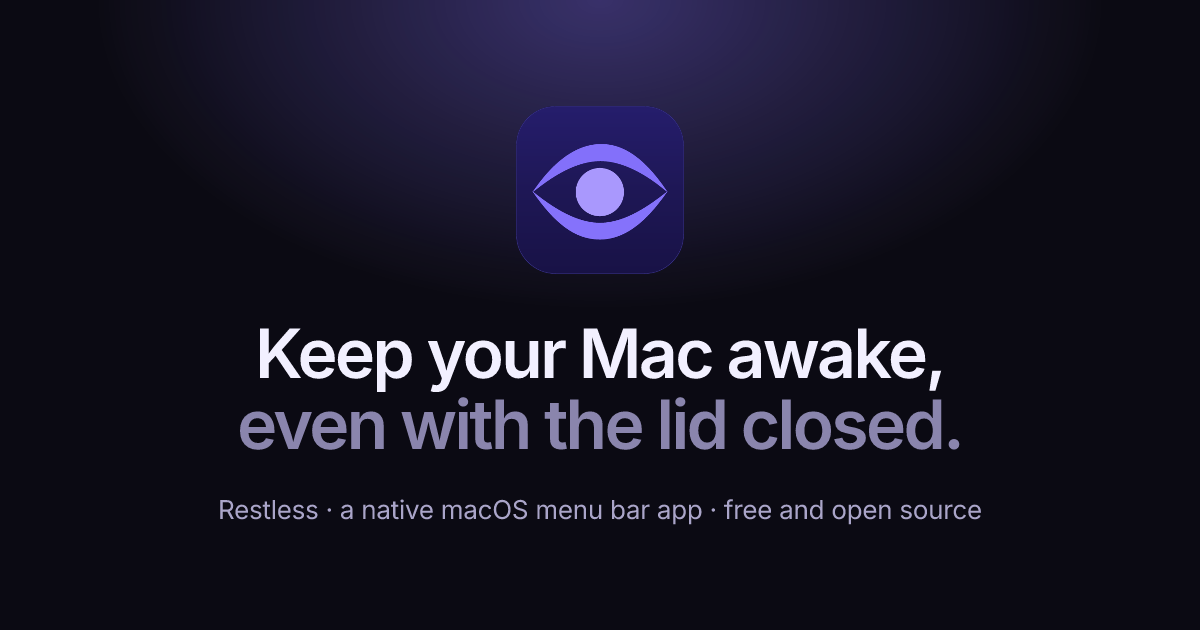
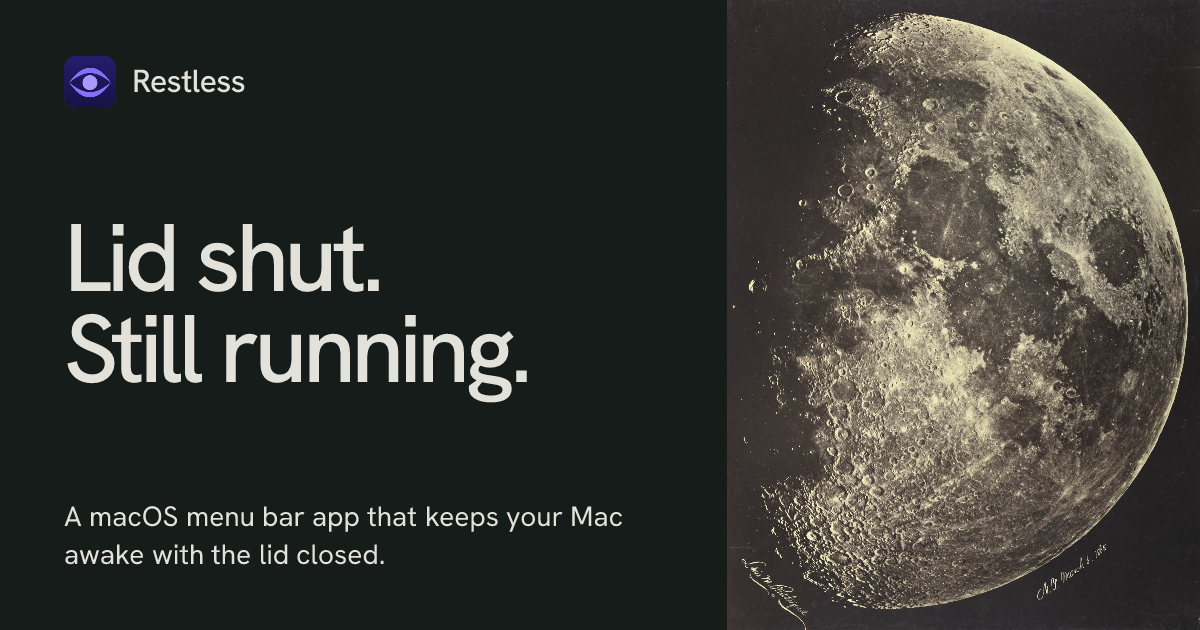
Regenerate the share image and document the design

diff --git a/README.md b/README.md
@@ -44,31 +44,63 @@ npm run assets
 
 That regenerates `favicon.svg`, `favicon.ico`, `apple-touch-icon.png` and the 1200×630 `og.png`. The outputs are committed, so builds don't run this step.
 
+## Design
+
+The page was art-directed with [tasteskill v2](https://www.tasteskill.dev/) (direction "The product performs", seed 425275325; palette redrawn once to "green-black and bone" so the violet app icon is the only purple on the page). In short:
+
+- **Idea:** one night on a closed MacBook. The hero headline is split around a frame, "Lid shut." on the left and "Still running." on the right, while a reel of that night passes through it as you scroll: the lid coming down at 11:41 pm, the moon, the build at 62%, done at 3:12 am.
+- **Pictures are the product's own interface,** built in HTML at true size from the app's real strings (the panel, the helper alert, Settings), plus macOS screens around it (Terminal, Downloads, Notification Center, System Settings). Every fragment's root has `data-ui`; inside it the product's own conventions apply.
+- **The live thing:** the five settings as sentences, each ending in Restless's switch. Flipping them changes the menu bar eye (`eye.slash` / `eye` / `eye.fill`) and the status line using the app's own rules.
+- **House rules:** one typeface (Hanken Grotesk, self-hosted), five type sizes, one ground, one ink, one accent on the download action. No gradients, no shadows outside fragments, no eyebrow labels, no hairlines.
+
+Sample content, for you to keep or replace: the build, deploy, download, notification and agent logs in the fragments are invented to look like a believable night's work; none of them claims anything about real users.
+
+### Checking it
+
+The skill's gates were run on the production build (`npm run build && npm run preview`):
+
+```sh
+node <taste-skill>/scripts/lint.mjs src
+node <taste-skill>/scripts/inspect.mjs http://localhost:4321/
+```
+
+Both pass with no failures. Two warnings are known and deliberate: em dashes appear only inside quoted app and Terminal strings, and on phones the inspector reads the hero reel's clipped frames as crossing the headline (they're clipped by the window, so nothing visibly does). Its working files go in `.taste-skill/`, which is git-ignored.
+
+## Pictures
+
+`public/media/` holds the found pictures, with their sources in `credits.json` and a credit line in the footer. Both are public domain:
+
+- *Moon, New York, March 8, 1865* by Lewis Morris Rutherfurd (ETH-Bibliothek Zürich, via Wikimedia Commons)
+- *Five Minutes in Orbit* by NASA Earth Observatory, from photographs by the Expedition 73 crew (via Wikimedia Commons), trimmed to 14 seconds, muted, as WebM and MP4
+
 ## Layout
 
 ```
 src/
-  pages/index.astro        the page, section by section
+  pages/index.astro        the page, in the order of its argument
   components/
-    Hero.astro             hero with the live eye
-    EyeMark.astro          the icon as inline SVG (`live` adds the moving iris)
-    LidDemo.astro          3D laptop and a working copy of the Restless panel
-    Details.astro          menu bar states and the smaller features
-    Helper.astro           how lid-closed mode stays passwordless
-    Trust.astro, Download.astro, Header.astro, Footer.astro
-  scripts/
-    eye.ts                 spring-driven gaze that follows the pointer
-    lid.ts                 the demo's state, mirroring the app's panel logic
+    Hero.astro             split headline and the night reel
+    Showcase.astro         what keeps running: SSH, downloads, builds, agents
+    Switches.astro         the live thing: five sentences with switches
+    HowItWorks.astro       approve the helper once (pinned stage, three states)
+    Proof.astro            signed, notarized, open source, Sparkle, macOS 26
+    Closing.astro          the download, with Restless as it first opens
+    Night.astro            the closing clip
+    Footer.astro           one line, plus credits
+    EyeMark.astro          the app icon as inline SVG
+    frags/                 interface fragments (panel, menu bar, alert, windows)
+  scripts/reel.ts          the hero reel's scroll stepping
   lib/release.ts           build-time GitHub release lookup with fallback
-  styles/global.css        dark palette (from the icon's purples), type scale, buttons, reveals
+  styles/global.css        tokens, type steps, buttons, entrances
+  styles/ui.css            fragment styles, scoped to [data-ui]
 scripts/generate-assets.mjs  favicon, touch icon and OG image
 ```
 
 ## Motion and accessibility
 
-Motion is kept to a few purposeful pieces: the hero entrance, the eye (which opens on load, follows the pointer and glances around when idle), scroll reveals, the lid demo and the helper diagram. The lid demo plays its story once by itself (close the lid, keep building, open it again), so visitors get the point without clicking anything; clicking the laptop or flipping a switch hands control to them. With `prefers-reduced-motion` the eye stays still, reveals become plain fades and the laptop switches state without animating. Everything also renders without JavaScript.
+The hero reel and the how-it-works stage are the two held moments; both are plain `position: sticky` with native scrolling, and each held screen has its own caption and count. Section parts rise in once as they arrive, pictures open from the bottom edge, controls answer press and hover, and the closing clip plays only while it's on screen. With `prefers-reduced-motion` nothing travels: the reel swaps frames in place, entrances become fades and the clip stays on its poster. Everything renders without JavaScript.
 
-The site is dark only, whatever the visitor's system setting. The palette uses the dark variant of the icon (`public/brand/restless-dark.svg`); the light SVG is kept alongside it for reference.
+The site is dark only, whatever the visitor's system setting.
 
 ## Credits
 
